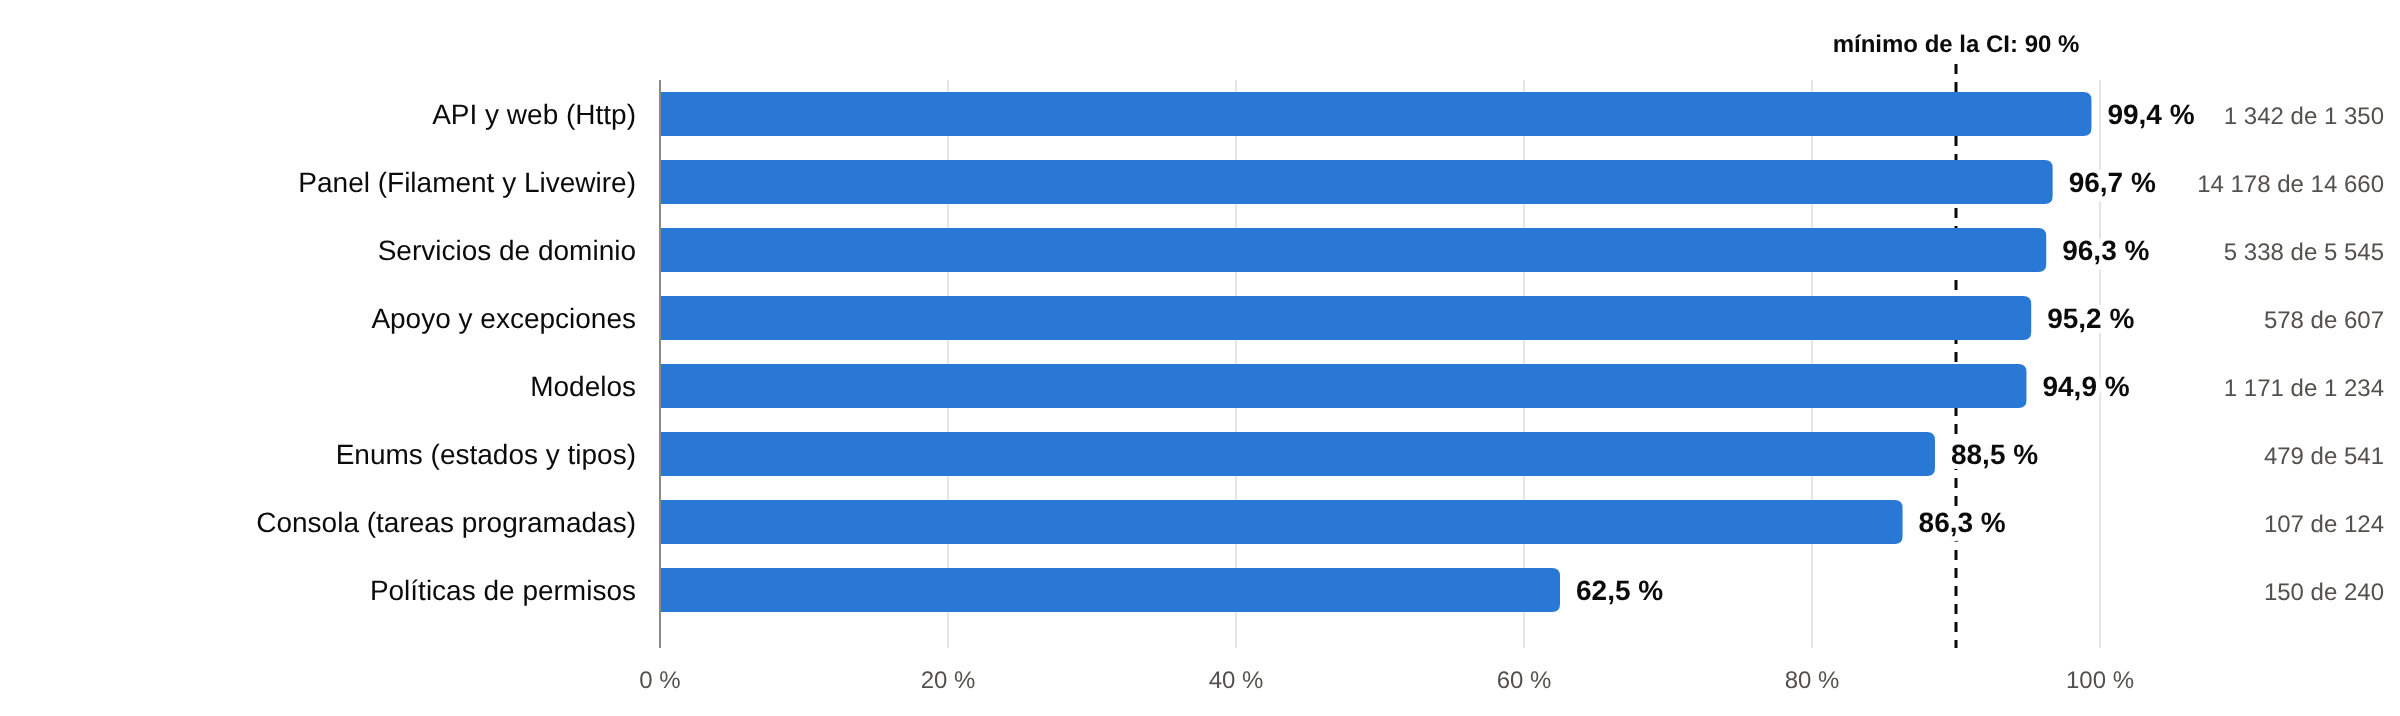
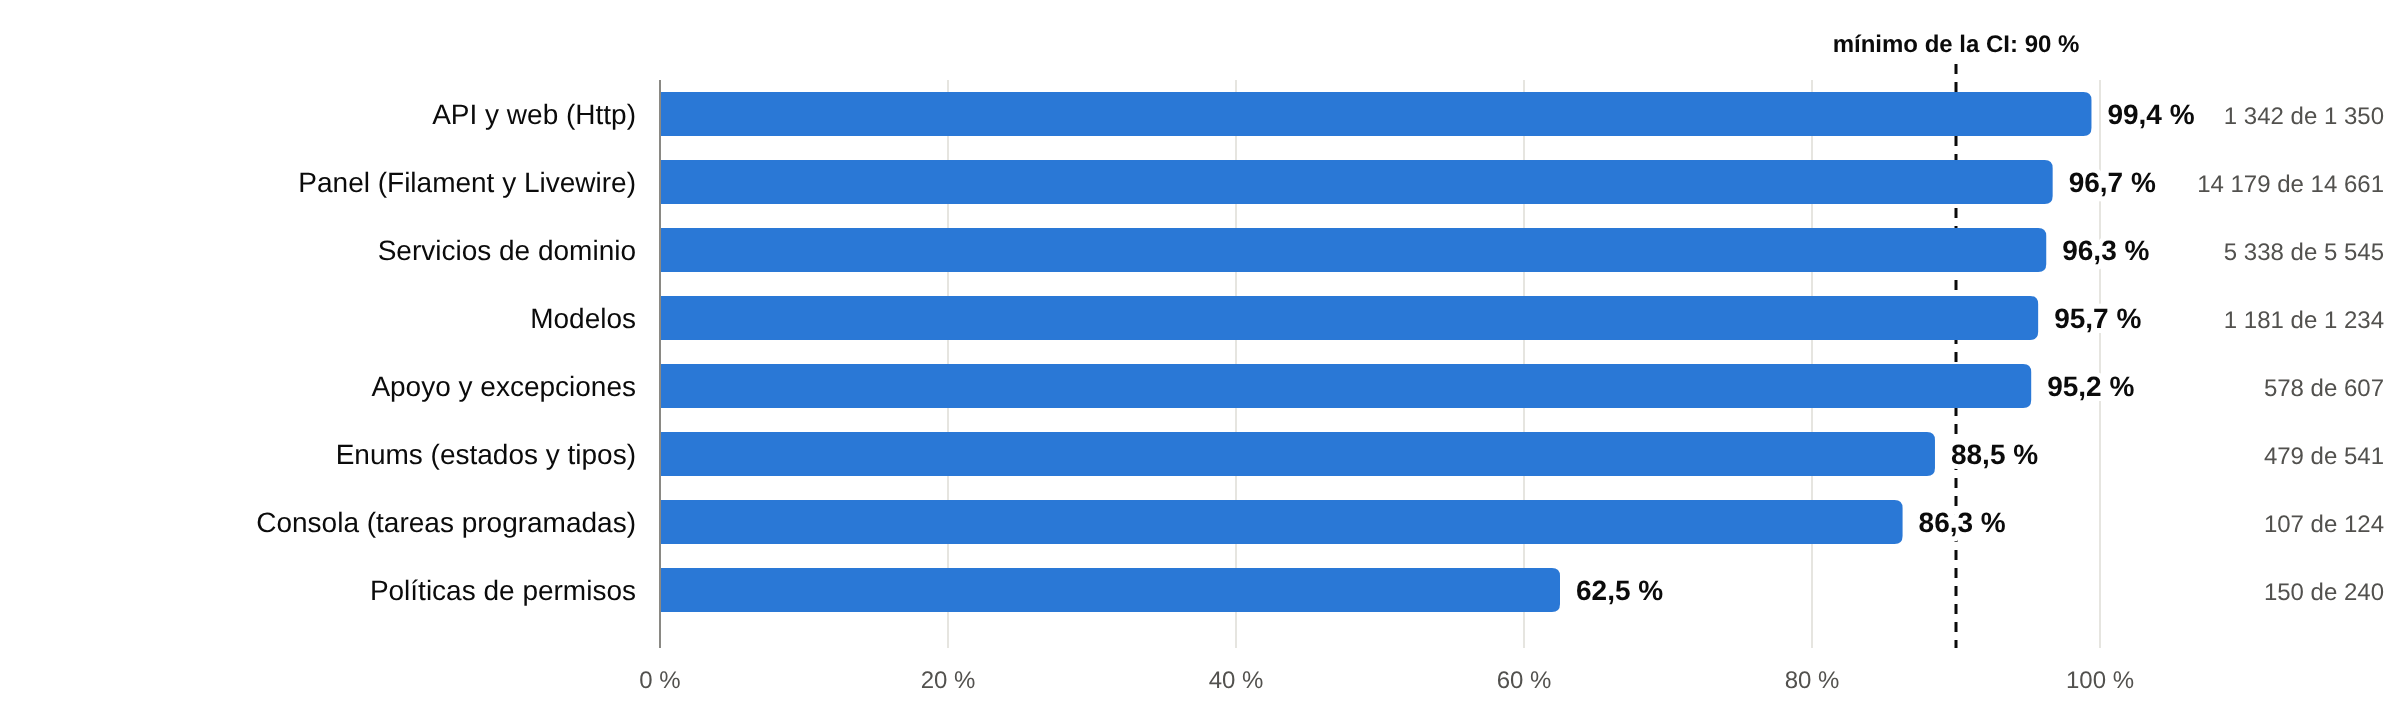
CE0241: cobertura medida otra vez, con la web y la suite de 1 097 pruebas
Backend: 1 097 pruebas y 10 555 verificaciones en verde en 386 s, 96,10 % de líneas (23 354 de 24 302) y 85,83 % de
métodos. Web (Vitest con @vitest/coverage-v8): 90,47 % de líneas, 77,44 % de ramas, 141 pruebas. Se regenera la
gráfica de cobertura por capa.

Claude-Session: https://claude.ai/code/session_01BZKyWERKWSziZ7rrDHoBMv

diff --git a/docs/entregables/E4-gestion-y-calidad/pruebas/cobertura-backend.md b/docs/entregables/E4-gestion-y-calidad/pruebas/cobertura-backend.md
@@ -1,14 +1,14 @@
 # Cobertura del backend (pcov)
 
-Suite completa sobre la rama del E4 el 19/11/2026: 1 096 pruebas y 10 548 verificaciones en verde, 400 s con cobertura (`php artisan test --coverage-clover`). Líneas: **96,06 %** (23 343 de 24 301). Métodos: 85,73 % (2 511 de 2 929). Es la misma tabla que la CI escribe en el resumen del job "Backend" y el reporte HTML completo queda como artefacto `cobertura-backend`.
+Suite completa sobre la rama del E4 el 19/11/2026: 1 097 pruebas y 10 555 verificaciones en verde, 386 s con cobertura (`php artisan test --coverage-clover`). Líneas: **96,10 %** (23 354 de 24 302). Métodos: 85,83 % (2 514 de 2 929). Es la misma tabla que la CI escribe en el resumen del job "Backend" y el reporte HTML completo queda como artefacto `cobertura-backend`.
 
 | Carpeta | Líneas | Cubiertas | % |
 | --- | ---: | ---: | ---: |
 | `app/Filament/Resources` | 8 533 | 8 151 | 95,5 |
 | `app/Filament/Pages` | 1 686 | 1 671 | 99,1 |
-| `app/Filament/Actions` | 1 476 | 1 447 | 98,0 |
+| `app/Filament/Actions` | 1 477 | 1 448 | 98,0 |
 | `app/Services/Clinical` | 1 371 | 1 319 | 96,2 |
-| `app/Models` | 1 196 | 1 133 | 94,7 |
+| `app/Models` | 1 196 | 1 143 | 95,6 |
 | `app/Filament/Widgets` | 1 125 | 1 112 | 98,8 |
 | `app/Filament/Support` | 1 115 | 1 097 | 98,4 |
 | `app/Http/Controllers` | 1 053 | 1 045 | 99,2 |
